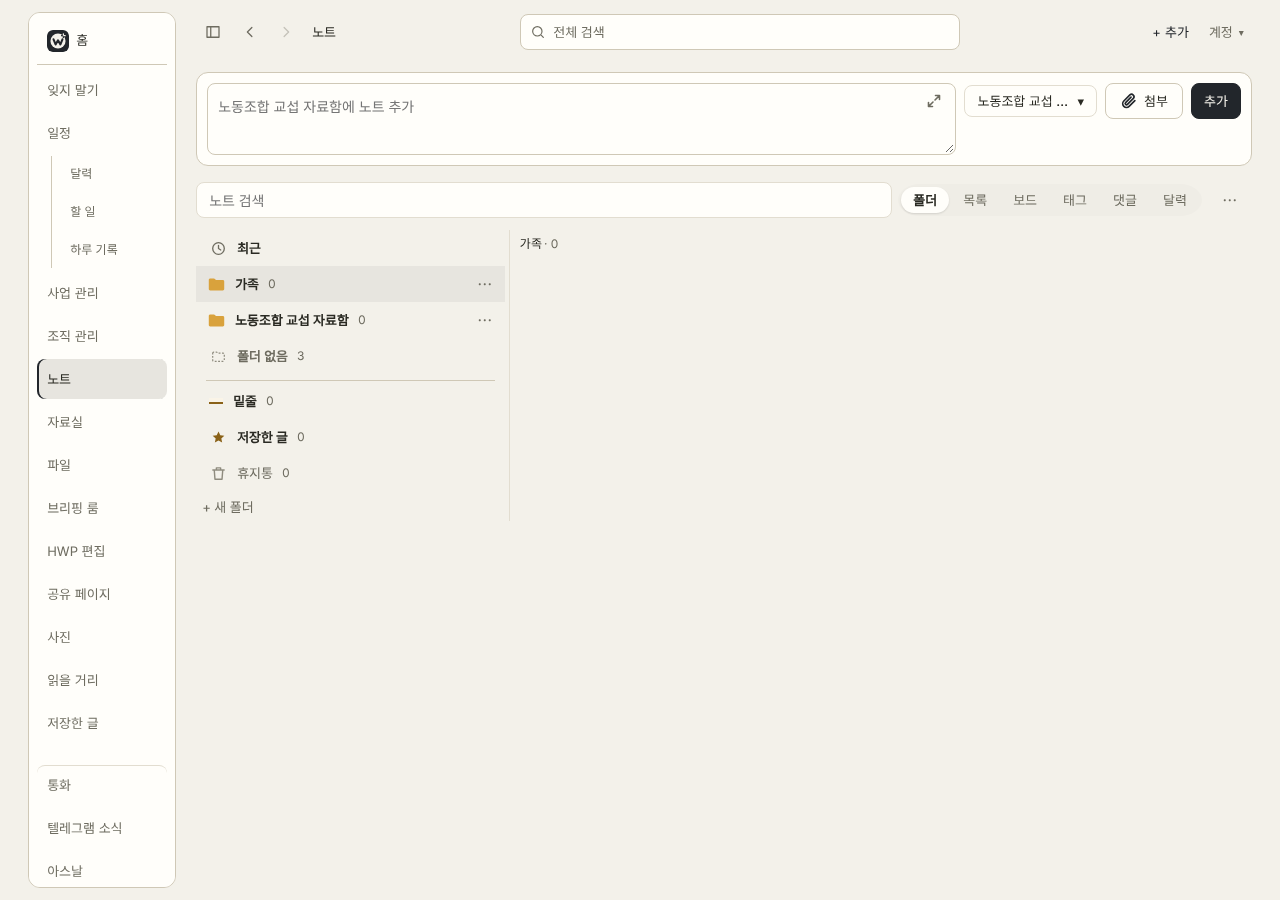
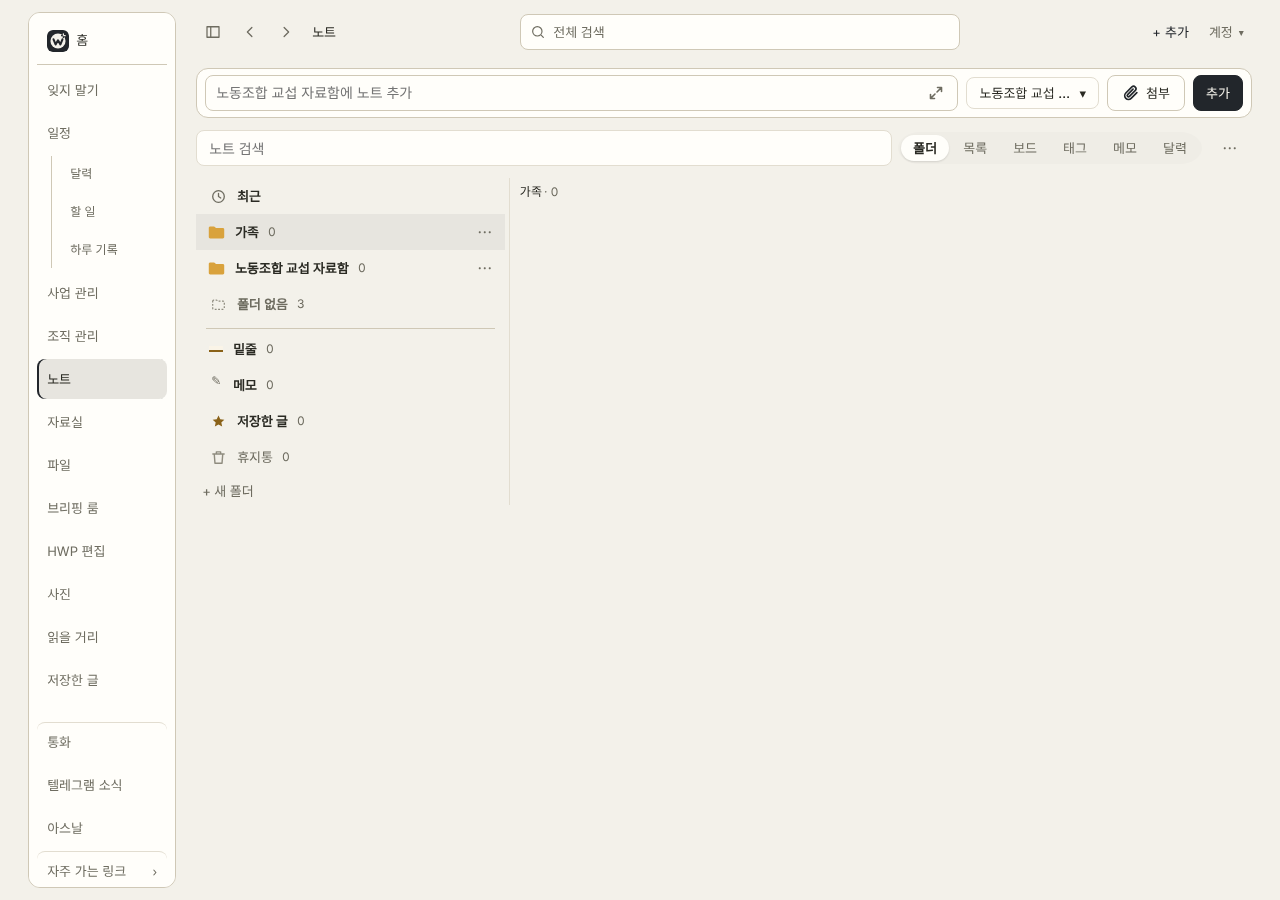
[S70-05] 한 줄 칸 줄 높이를 칸 안 높이로(반쪽 줄 안 보임) · 전후 화면 사진
Claude-Session: https://claude.ai/code/session_018yqVMxnZbCMVxo591egyqc

diff --git a/app/basket.css b/app/basket.css
@@ -219,13 +219,13 @@ body.kptu-mobile-keyboard #basketView .basket-approval-footer { position:static;
 @media(min-width:761px) { #appView #basketView .home-quick .home-quick-entry > button.home-quick-folder { align-self:flex-start; margin-top:2px; } }
 /* NOTE-입력창한줄(S70-05, 명진 11/25 09:30 "pc에서 노트를 입력하세요 입력창 한줄로 / 어차피 크게 누르면 전체화면인데"):
    PC 노트 입력칸은 늘 한 줄 높이([추가]와 같은 --kptu-control-height)로 고정한다. 글이 길어도 늘지 않고(칸 안에서 넘김), 길게 쓸 때는 칸 안 [⤢ 크게].
-   여러 줄 붙여넣기는 값에 그대로 담긴다(보이는 높이만 한 줄). 크기 손잡이 없음. [폴더 ▾]·[첨부]·[추가]는 칸과 가운데를 맞춘 한 줄, 감싼 상자 여백도 줄인다.
+   여러 줄 붙여넣기는 값에 그대로 담긴다(보이는 높이만 한 줄). 줄 높이 = 칸 안 높이라 넘겨 볼 때도 늘 한 줄만 온전히 보인다(반쪽 줄 없음). 크기 손잡이 없음. [폴더 ▾]·[첨부]·[추가]는 칸과 가운데를 맞춘 한 줄, 감싼 상자 여백도 줄인다.
    폰(760 이하)은 위 ui-standard.css 한 줄 규칙 그대로(이 묶음은 PC만). Enter 동작은 바꾸지 않는다(enter-save.js). */
 @media(min-width:761px) {
   #appView #basketView .home-quick[data-note-only] { margin:8px 0; padding:6px 8px; }
   #appView #basketView .home-quick[data-note-only] .home-quick-entry { align-items:center; }
   #appView #basketView .home-quick[data-note-only] .home-quick-entry > button.home-quick-folder { align-self:center; margin-top:0; }
-  #appView #basketView .home-quick[data-note-only] [data-quick-input] { box-sizing:border-box; height:var(--kptu-control-height); min-height:var(--kptu-control-height); max-height:var(--kptu-control-height); padding-top:7px; padding-bottom:6px; line-height:21px; resize:none; overflow-y:auto; scrollbar-width:none; }
+  #appView #basketView .home-quick[data-note-only] [data-quick-input] { box-sizing:border-box; height:var(--kptu-control-height); min-height:var(--kptu-control-height); max-height:var(--kptu-control-height); padding-top:0; padding-bottom:0; line-height:calc(var(--kptu-control-height) - 2px); resize:none; overflow-y:auto; scrollbar-width:none; }
   #appView #basketView .home-quick[data-note-only] [data-quick-input]::-webkit-scrollbar { display:none; }
 }
 /* ED③ 노트: 노트 수정 칸의 본문은 새 편집기(ed-editor.js, 모양은 ed-doc.css). 칸 테두리만 둘러 옛 textarea 자리와 같은 폭·높이로 둔다. */
